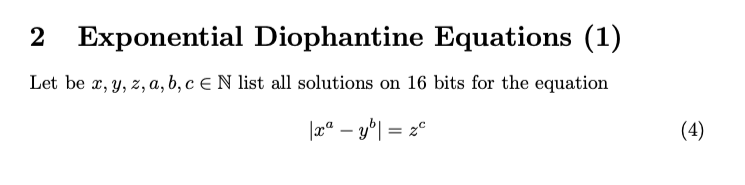
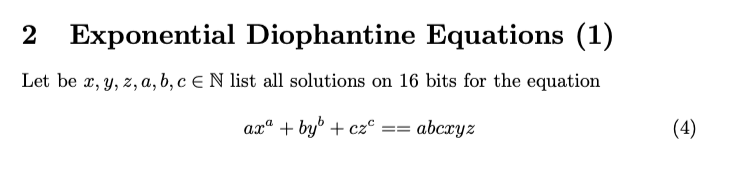
example

diff --git a/exponential_diophantine_equations/example1.py b/exponential_diophantine_equations/example1.py
@@ -1,10 +1,5 @@
 from big_csp import *
 
-
-def eq():
-    return abs(x ** a - y ** b) == z ** c
-
-
 if __name__ == '__main__':
 
     bits = Encoder(bits=16)
@@ -16,7 +11,8 @@ if __name__ == '__main__':
     b = Entity(bits)
     c = Entity(bits)
 
-    assert (eq())
+    assert (a * x ** a + b * y ** b + c * z ** c == a * b * c * x * y * z)
+    
     assert (x > 1)
     assert (y > 1)
     assert (z > 1)
@@ -26,5 +22,5 @@ if __name__ == '__main__':
 
     solver = Solver()
     while solver.satisfy([x, y, z, a, b, c]):
-        print('abs({0} ** {1} - {2} ** {3}) == {4} ** {5}'.format(x, a, y, b, z, c))
+        print('{1}*{0}**{1} + {3}*{2}**{3} + {5}*{4}**{5} == {1}*{3}*{5}*{0}*{2}*{4}'.format(x, a, y, b, z, c))
     solver.clear()
